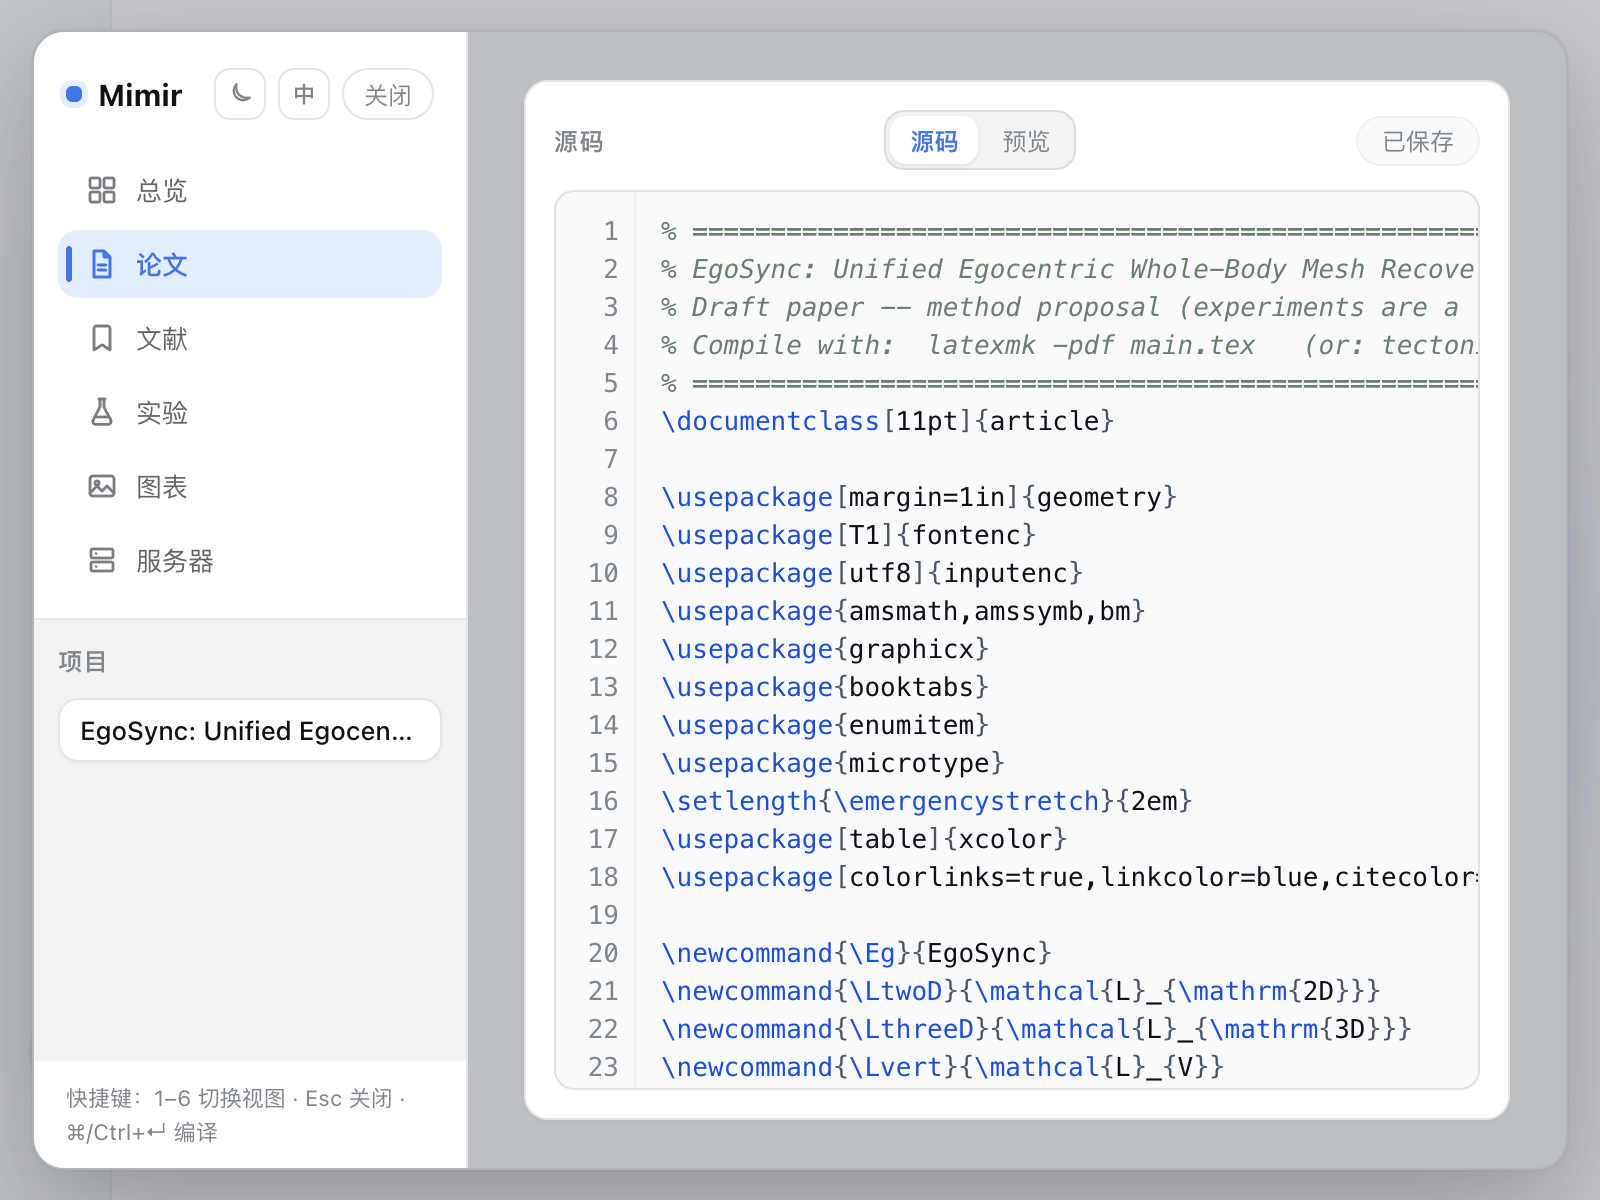
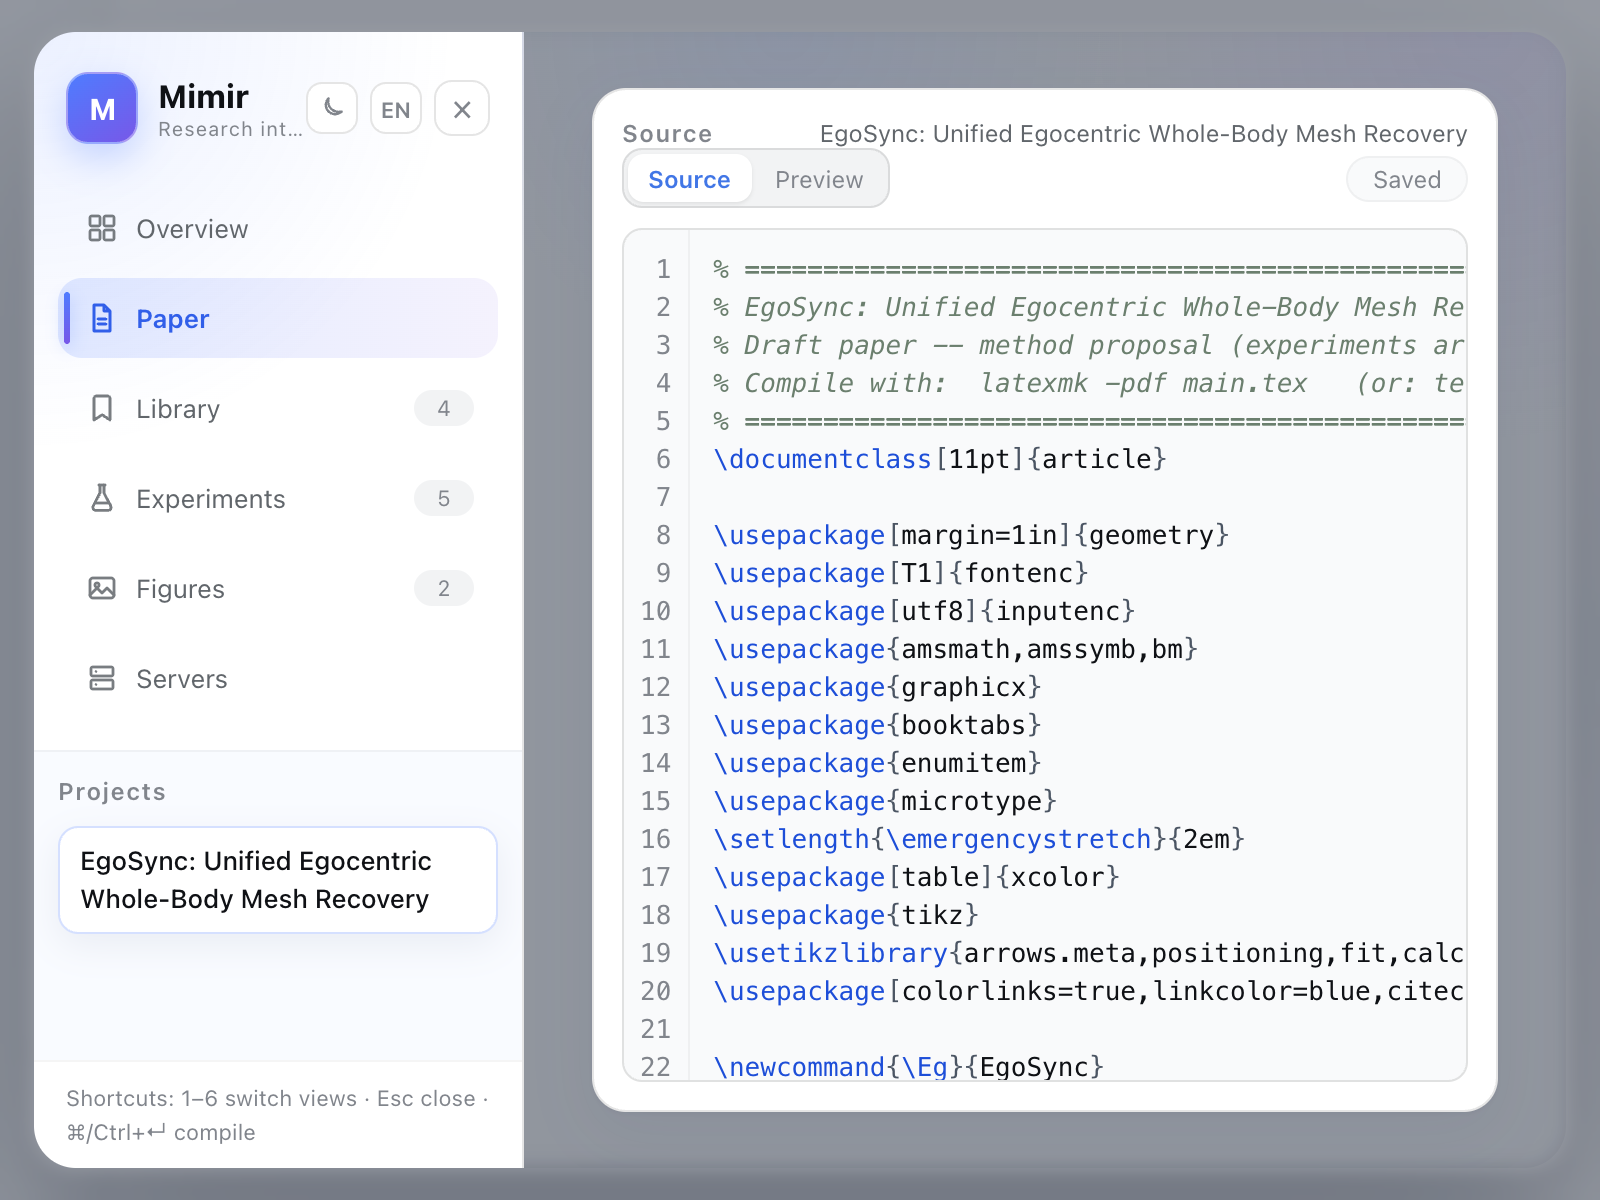
docs: retake README screenshots against the post-#63 UI
All 18 existing screenshots retaken at 1600x1000 @2x (narrow: 800x600 @2x)
in light+English (dark pair in dark+English) against the live panel:
new rail layout, stat cards, recent activity, metric comparison charts,
project-name editor header, related-work and AI-fix buttons.

New: tab-paper-aifix.png (compile issue list with the per-issue
"Fix with AI" button), added to the paper table in both READMEs.

Note: tab-paper-issues/tab-paper-issue-jump show the clean-compile state —
the only current issue is an inputenc.sty warning whose jump target is
outside main.tex (button disabled); no error state was reproducible
without touching the paper sources.

diff --git a/README.md b/README.md
@@ -181,9 +181,9 @@ The landing view: the selected project's five-stage pipeline progress, stat chip
 
 An Overleaf-style editor for the project's paper directory: a collapsible outline whose top-level sections drag-reorder via row grips (rewriting `main.tex`'s `\section` order), an autosaving `main.tex` editor (~800 ms debounce, optimistic concurrency — a displaced draft freezes and offers reload) with LaTeX syntax highlighting and synced line numbers (both windowed to the visible range, so multi-thousand-line papers stay responsive), one-click compile with the engine labeled, an error list whose entries jump the editor to the source line and offer a **Let AI fix** button (assembles the issue, a numbered ±3-line source window, and repair instructions into a prompt for the current session's agent), an inline PDF preview, and a bibliography panel over `references.bib` (delete entries, conflict-safe saves, append checked library papers). The editor head always shows the current project's name — with several projects side by side you can tell at a glance which paper you are editing. Saving an untouched draft auto-compiles after ~1.5 s. Drag handles resize the three panes (widths persist); editor and preview go fullscreen on one click. `⌘/Ctrl+Enter` compiles.
 
-| Paper: syntax highlighting | Paper: compile issues | Paper: click-to-jump |
-| --- | --- | --- |
-| ![Paper: syntax highlighting](docs/screenshots/tab-paper-highlight.png) | ![Paper: compile issues](docs/screenshots/tab-paper-issues.png) | ![Paper: click-to-jump](docs/screenshots/tab-paper-issue-jump.png) |
+| Paper: syntax highlighting | Paper: compile issues | Paper: fix with AI | Paper: click-to-jump |
+| --- | --- | --- | --- |
+| ![Paper: syntax highlighting](docs/screenshots/tab-paper-highlight.png) | ![Paper: compile issues](docs/screenshots/tab-paper-issues.png) | ![Paper: fix with AI](docs/screenshots/tab-paper-aifix.png) | ![Paper: click-to-jump](docs/screenshots/tab-paper-issue-jump.png) |
 
 | Paper: bibliography panel | Paper: editor fullscreen |
 | --- | --- |

diff --git a/README.zh.md b/README.zh.md
@@ -181,9 +181,9 @@ dsh plugin --profile web add "$PWD/packages/mimir"
 
 项目论文目录的 Overleaf 式编辑器：可折叠大纲栏（顶层章节从行首手柄拖拽重排，重写 `main.tex` 的 `\section` 顺序）、自动保存的 `main.tex` 编辑器（约 800 ms 防抖、乐观并发——被顶掉的草稿会冻结并提供重载）带 LaTeX 语法高亮与同步行号（高亮层和行号都按可视区窗口化渲染，几千行的论文也保持流畅）、一键编译（标注引擎）、点击跳源码行的错误列表（每条还带**「让 AI 修」**按钮——把该 issue、带行号的 ±3 行源码窗口和修复要求组装成 prompt 发给当前会话的 agent）、内嵌 PDF 预览，以及覆盖 `references.bib` 的参考文献面板（删除条目、冲突安全保存、勾选文献库论文追加）。编辑器头部常显当前项目名——多项目并行时一眼确认在改哪篇。未再改动的草稿保存成功约 1.5 s 后自动编译。拖拽手柄调整三栏宽度（布局持久化）；编辑器/预览可一键全屏。`⌘/Ctrl+Enter` 编译。
 
-| 论文：语法高亮 | 论文：编译问题 | 论文：点击跳源码行 |
-| --- | --- | --- |
-| ![论文：语法高亮](docs/screenshots/tab-paper-highlight.png) | ![论文：编译问题](docs/screenshots/tab-paper-issues.png) | ![论文：点击跳源码行](docs/screenshots/tab-paper-issue-jump.png) |
+| 论文：语法高亮 | 论文：编译问题 | 论文：让 AI 修 | 论文：点击跳源码行 |
+| --- | --- | --- | --- |
+| ![论文：语法高亮](docs/screenshots/tab-paper-highlight.png) | ![论文：编译问题](docs/screenshots/tab-paper-issues.png) | ![论文：让 AI 修](docs/screenshots/tab-paper-aifix.png) | ![论文：点击跳源码行](docs/screenshots/tab-paper-issue-jump.png) |
 
 | 论文：参考文献面板 | 论文：编辑器全屏 |
 | --- | --- |
